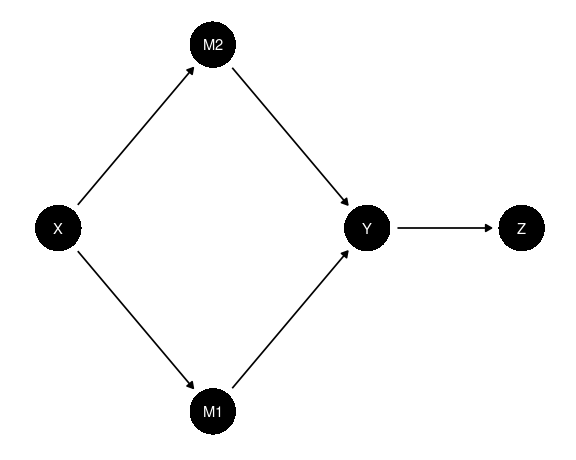
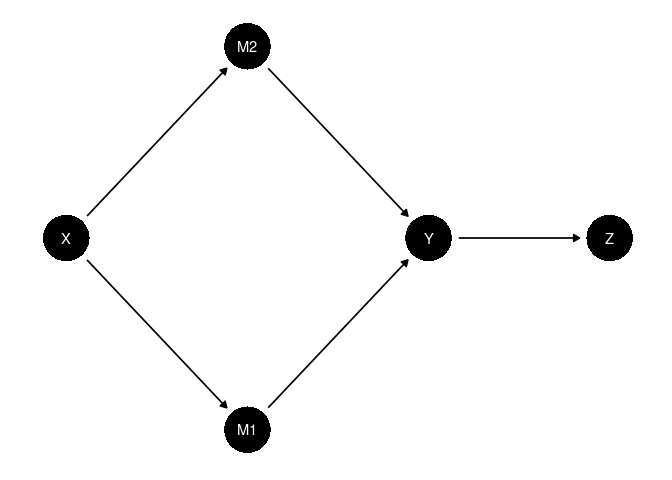
updated README

diff --git a/README.md b/README.md
@@ -82,7 +82,7 @@ the model described by the following DAG. It alone has \~4 Billion
 nodal- and \~8796 Billion causal-types, as well as a myriad of further
 parameters attached to both.
 
-<img src="man/figures/README-unnamed-chunk-3-1.png" width="40%" height="40%" style="display: block; margin: auto;" />
+<img src="man/figures/README-unnamed-chunk-3-1.png" width="100%" style="display: block; margin: auto;" />
 
 The simple fact that a binary node’s set of nodal-types grows as a
 function of its number of parents $k$ by $2^{(2^k)}$ and that a model’s
@@ -136,13 +136,14 @@ $\pi$ is a permutation of indices, we can factorize a probability
 distribution $P(X)$ over a DAG $D$ as
 $P(X) = \prod_{i = 1}^n P(X_i | PARENT_i)$. Every node is independent of
 its non-descendants given its parents. The following DAG can thus be
-factorized like so:  
-<img src="man/figures/README-unnamed-chunk-4-1.png" width="40%" height="40%" style="display: block; margin: auto;" />
+factorized like so:
+
+<img src="man/figures/README-unnamed-chunk-4-1.png" width="100%" style="display: block; margin: auto;" />
 
 $P(X)=P(X)P(M_1|X)P(M_2|X)P(Y|M_1,M_2)P(Z|Y)$. This means we can split
 it into the following sub-DAGs.
 
-<img src="man/figures/README-unnamed-chunk-5-1.png" width="50%" height="55%" style="display: block; margin: auto;" />
+<img src="man/figures/README-unnamed-chunk-5-1.png" width="100%" style="display: block; margin: auto;" />
 
 Instead of updating a full model using standard `CausalQueries`
 `update_model()`, `update_stitch` can thus update its much simpler
